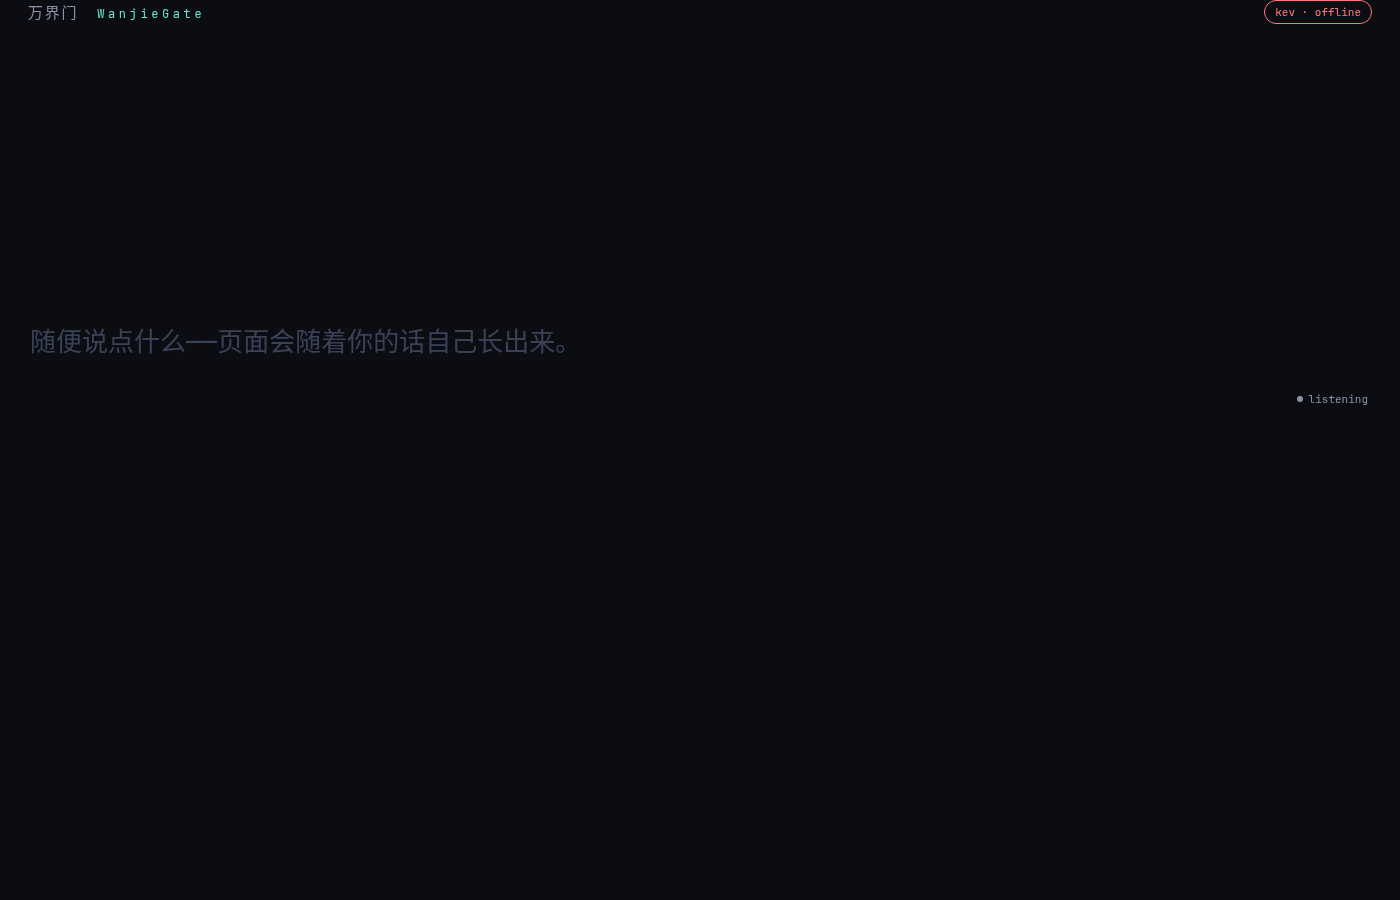
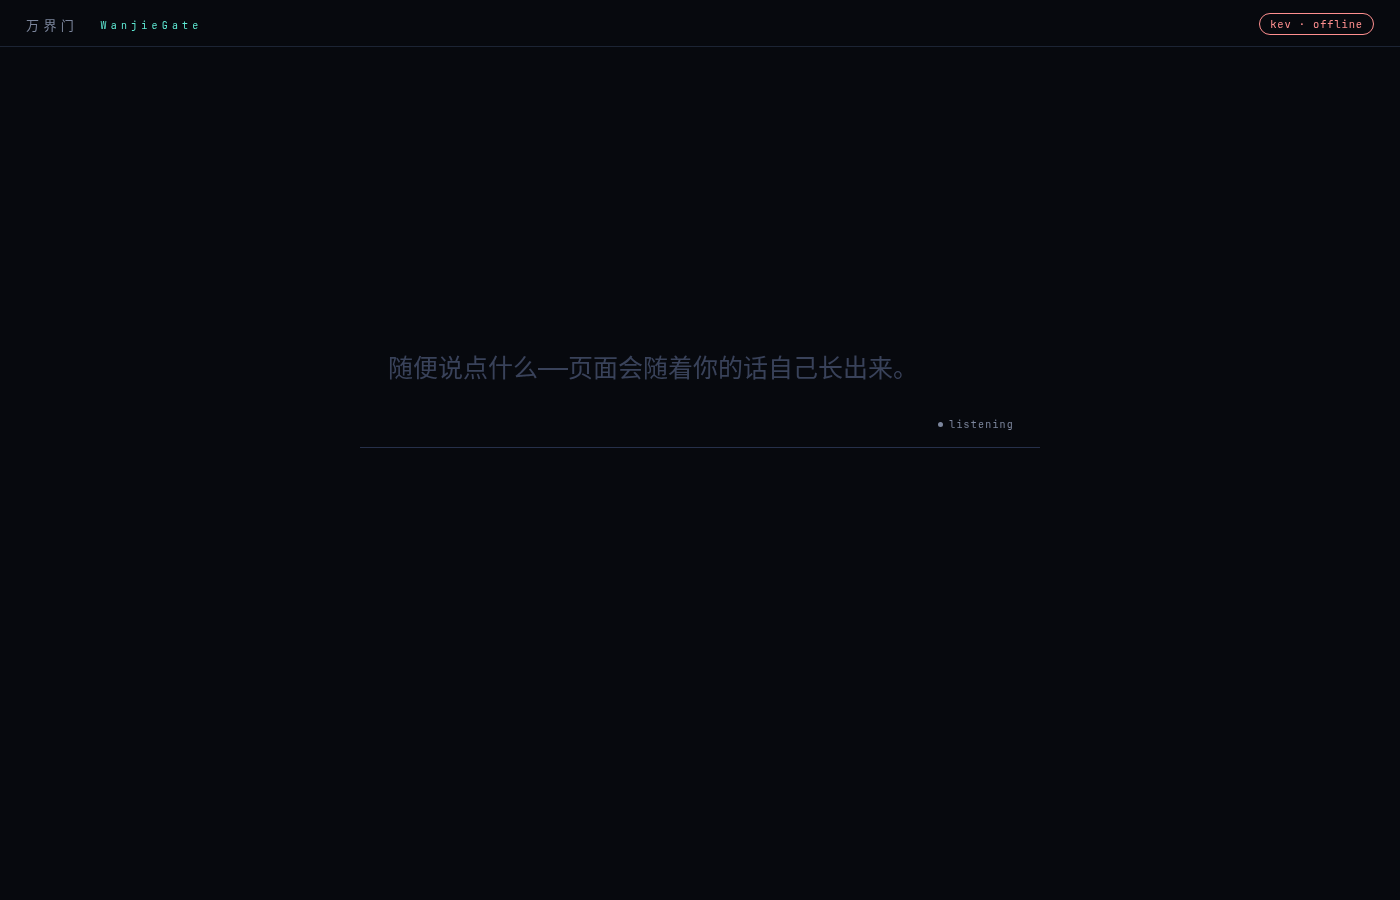
从卡片堆叠改为空间分划布局
- pack() 重写:alert/action-bar 占顶底条带,中部按主区+侧栏分划,
  区域内按 minH 权重铺满,新元素进来时所有区域平滑重划
- 视觉:平面区域 + 发丝分隔线(stage 底色透出),幽灵态为虚线轮廓,
  idle 输入框收窄居中
- selftest 新增 banner 顶行整宽断言

Generated with [Devin](https://devin.ai)

diff --git a/static/styles.css b/static/styles.css
@@ -1,126 +1,141 @@
 :root {
-  --bg: #0b0d12;
-  --panel: #141822;
-  --panel-2: #1a2030;
-  --line: #262f45;
-  --text: #e8ecf4;
-  --dim: #8a93a8;
-  --accent: #6ee7c8;
-  --accent-2: #7aa8ff;
-  --warn: #ff7a7a;
-  --radius: 14px;
-  --ghost: 0.14;
-  font-family: "SF Mono", ui-monospace, "JetBrains Mono", "Noto Sans SC", system-ui, sans-serif;
+  --bg: #07090e;
+  --panel: #0d1119;
+  --panel-2: #10151f;
+  --line: #1c2434;
+  --hair: #26304a;
+  --text: #eaeef7;
+  --dim: #7c869d;
+  --accent: #5eead4;
+  --accent-2: #82aaff;
+  --warn: #ff8f8f;
+  font-family: ui-monospace, "SF Mono", "JetBrains Mono", "Noto Sans SC", monospace;
 }
 * { box-sizing: border-box; }
 html, body { margin: 0; height: 100%; background: var(--bg); color: var(--text); }
 body { overflow: hidden; }
 
-#app {
-  display: flex; flex-direction: column;
-  height: 100vh;
-  padding: 0 28px 28px;
+#app { display: flex; flex-direction: column; height: 100vh; }
+
+/* ---------- 顶栏 ---------- */
+header {
+  display: flex; align-items: center; justify-content: space-between;
+  padding: 13px 26px 11px; border-bottom: 1px solid var(--line);
 }
+.brand { font-size: 13px; letter-spacing: .34em; color: var(--dim); }
+.brand span { color: var(--accent); font-size: 10px; letter-spacing: .42em; margin-left: 10px; vertical-align: 1px; }
 
-header { display: flex; align-items: center; justify-content: space-between; }
-.brand { font-size: 15px; letter-spacing: 0.12em; color: var(--dim); }
-.brand span { color: var(--accent); font-size: 12px; letter-spacing: 0.3em; margin-left: 8px; }
-
-.conn { font-size: 11px; padding: 4px 10px; border-radius: 99px; border: 1px solid var(--line); color: var(--dim); transition: all .3s; }
+.conn { font-size: 10.5px; padding: 3px 10px; border-radius: 99px; border: 1px solid var(--line); color: var(--dim); transition: all .3s; letter-spacing: .08em; }
 .conn-on  { border-color: var(--accent); color: var(--accent); }
 .conn-mock{ border-color: var(--accent-2); color: var(--accent-2); }
 .conn-off { border-color: var(--warn); color: var(--warn); }
 
-#composer { position: relative; padding: 8px 0 18px; flex: none;
-  margin-top: 0;
-  transition: margin-top .7s cubic-bezier(.22,1.1,.3,1);
+/* ---------- 输入区 ---------- */
+#composer {
+  position: relative; flex: none;
+  padding: 2px 26px 12px;
+  border-bottom: 1px solid var(--line);
+  transition: margin-top .7s cubic-bezier(.22,1.1,.3,1),
+              width .7s cubic-bezier(.22,1.1,.3,1);
 }
-/* idle:屏幕上只有居中的输入框 */
-#app.idle #composer { margin-top: 32vh; }
-#app.idle #input { font-size: 26px; }
+/* idle: 屏幕上只有居中的输入框 */
+#app.idle #composer { margin-top: 33vh; width: min(680px, 100%); align-self: center; border-bottom-color: var(--hair); }
+#app.idle #input { font-size: 25px; min-height: 64px; }
 #input {
-  width: 100%; min-height: 84px; max-height: 30vh; resize: none;
+  width: 100%; min-height: 56px; max-height: 26vh; resize: none;
   background: transparent; border: none; outline: none;
-  color: var(--text); font-size: 22px; line-height: 1.55; font-family: inherit;
+  color: var(--text); font-size: 16px; line-height: 1.6; font-family: inherit;
   caret-color: var(--accent);
   transition: font-size .7s cubic-bezier(.22,1.1,.3,1);
 }
-#input::placeholder { color: #3a4258; }
-#pulse { position: absolute; right: 4px; bottom: 22px; font-size: 11px; color: var(--dim); display: flex; gap: 6px; align-items: center; }
-#pulse-dot { width: 6px; height: 6px; border-radius: 50%; background: var(--dim); transition: background .2s; }
+#input::placeholder { color: #39425a; }
+#pulse { position: absolute; right: 26px; bottom: 16px; font-size: 10px; letter-spacing: .12em; color: var(--dim); display: flex; gap: 6px; align-items: center; }
+#pulse-dot { width: 5px; height: 5px; border-radius: 50%; background: var(--dim); transition: background .2s; }
 #pulse.thinking #pulse-dot { background: var(--accent); box-shadow: 0 0 8px var(--accent); }
 
+/* ---------- 画布:一整个被分划的空间 ---------- */
 #stage {
   position: relative; overflow: hidden; flex: 1;
-  border-top: 1px solid var(--line);
+  margin: 16px 26px 22px;
+  border: 1px solid var(--hair); border-radius: 12px;
+  background: var(--hair);                       /* 区域缝隙透出 = 发丝分隔线 */
   opacity: 1; transition: opacity .5s ease;
 }
 #app.idle #stage { opacity: 0; pointer-events: none; }
 
-/* ---- materializing cards ---- */
+/* ---------- 区域(原"卡片") ---------- */
 .card {
   position: absolute; left: 0; top: 0;
-  background: linear-gradient(160deg, var(--panel), var(--panel-2));
-  border: 1px solid var(--line);
-  border-radius: var(--radius);
-  padding: 14px 16px;
+  background: linear-gradient(165deg, var(--panel-2), var(--panel));
+  padding: 14px 18px;
   overflow: hidden;
   will-change: transform, opacity, filter;
   transition:
     transform  .48s cubic-bezier(.22,1.2,.3,1),
     width      .48s cubic-bezier(.22,1.2,.3,1),
     height     .48s cubic-bezier(.22,1.2,.3,1),
-    box-shadow .3s ease,
-    border-color .3s ease;
+    left       .48s cubic-bezier(.22,1.2,.3,1),
+    top        .48s cubic-bezier(.22,1.2,.3,1),
+    box-shadow .3s ease;
 }
+/* 幽灵态:区域还只是"被提议",虚线轮廓 + 透明底 */
 .card.ghost {
-  border-style: dashed;
   background: transparent;
-  backdrop-filter: none;
+  outline: 1px dashed #33405e; outline-offset: -5px;
 }
+/* 强调区:发丝线变成 accent,内角微光 */
 .card.emph {
-  border-color: var(--accent);
-  box-shadow: 0 0 0 1px var(--accent), 0 12px 40px -12px rgba(110,231,200,.35);
+  box-shadow: inset 0 0 0 1px var(--accent), inset 0 0 60px -40px var(--accent);
 }
-.card .c-title { font-size: 11px; letter-spacing: .14em; text-transform: uppercase; color: var(--dim); margin-bottom: 8px; }
-.card .c-big { font-size: 34px; font-weight: 700; line-height: 1.05; }
-.card .c-sub { font-size: 12px; color: var(--dim); margin-top: 4px; }
+.card.emph .c-title { color: var(--accent); }
+
+.card .c-title { font-size: 10px; letter-spacing: .2em; text-transform: uppercase; color: var(--dim); margin-bottom: 8px; }
+.card .c-big { font-size: clamp(24px, 3.4vh, 38px); font-weight: 600; line-height: 1.05; letter-spacing: -.01em; }
+.card .c-sub { font-size: 11.5px; color: var(--dim); margin-top: 5px; }
 .card .trend-up { color: var(--accent); }
 .card .trend-down { color: var(--warn); }
 
-.chip { display: inline-flex; align-items: center; gap: 8px; }
-.chip .val { font-size: 18px; color: var(--accent); font-weight: 600; }
-.chip .bar { width: 90px; height: 5px; background: var(--line); border-radius: 99px; overflow: hidden; }
+.chip { display: inline-flex; align-items: center; gap: 10px; }
+.chip .val { font-size: 17px; color: var(--accent); font-weight: 600; }
+.chip .bar { width: 90px; height: 4px; background: var(--line); border-radius: 99px; overflow: hidden; }
 .chip .bar i { display: block; height: 100%; background: var(--accent); transition: width .3s; }
 
-.banner { background: linear-gradient(90deg, rgba(255,122,122,.14), rgba(255,122,122,.04)); border-color: rgba(255,122,122,.5); display: flex; align-items: center; gap: 10px; }
-.banner .dot { width: 8px; height: 8px; border-radius: 50%; background: var(--warn); box-shadow: 0 0 10px var(--warn); }
+/* 顶/底条带区域:内容垂直居中 */
+.banner {
+  background: linear-gradient(90deg, rgba(255,143,143,.13), rgba(255,143,143,.02) 70%);
+  box-shadow: inset 3px 0 0 var(--warn);
+  display: flex; align-items: center; gap: 10px;
+}
+.banner .dot { width: 8px; height: 8px; border-radius: 50%; background: var(--warn); box-shadow: 0 0 10px var(--warn); flex: none; }
+.banner > div { font-size: 14px; }
 
+.card[data-id="action-bar"] { display: flex; align-items: center; }
 .actions { display: flex; gap: 10px; align-items: center; }
-.btn { font: inherit; font-size: 13px; padding: 8px 14px; border-radius: 9px; border: 1px solid var(--line); background: var(--panel-2); color: var(--text); cursor: pointer; transition: all .18s; }
+.btn { font: inherit; font-size: 12.5px; padding: 7px 14px; border-radius: 8px; border: 1px solid var(--hair); background: var(--panel-2); color: var(--text); cursor: pointer; transition: all .18s; }
 .btn:hover { border-color: var(--accent); color: var(--accent); transform: translateY(-1px); }
 .btn.primary { background: var(--accent); color: #06281f; border-color: var(--accent); font-weight: 600; }
 
-.hero-num { font-size: 72px; font-weight: 800; letter-spacing: -.02em; background: linear-gradient(90deg, var(--accent), var(--accent-2)); -webkit-background-clip: text; background-clip: text; color: transparent; }
+.card[data-id="hero-stat"] { display: flex; flex-direction: column; align-items: center; justify-content: center; }
+.hero-num { font-size: clamp(48px, 11vh, 110px); font-weight: 700; letter-spacing: -.03em; background: linear-gradient(90deg, var(--accent), var(--accent-2)); -webkit-background-clip: text; background-clip: text; color: transparent; }
 
 table.rows { width: 100%; border-collapse: collapse; font-size: 13px; }
-table.rows td { padding: 5px 2px; border-bottom: 1px solid var(--line); color: var(--text); }
+table.rows td { padding: 6px 2px; border-bottom: 1px solid var(--line); color: var(--text); }
 table.rows td:last-child { text-align: right; color: var(--dim); }
 
-.tl { display: flex; flex-direction: column; gap: 8px; font-size: 13px; }
+.tl { display: flex; flex-direction: column; gap: 9px; font-size: 13px; }
 .tl .step { display: flex; gap: 10px; align-items: baseline; }
-.tl .step i { width: 7px; height: 7px; border-radius: 50%; background: var(--accent-2); flex: none; transform: translateY(-1px); }
+.tl .step i { width: 6px; height: 6px; border-radius: 50%; background: var(--accent-2); flex: none; transform: translateY(-1px); }
 
-.prog { height: 8px; background: var(--line); border-radius: 99px; overflow: hidden; margin-top: 10px; }
+.prog { height: 6px; background: var(--line); border-radius: 99px; overflow: hidden; margin-top: 12px; }
 .prog i { display: block; height: 100%; background: linear-gradient(90deg, var(--accent-2), var(--accent)); transition: width .6s cubic-bezier(.3,1,.3,1); }
 
-.note { font-size: 15px; line-height: 1.6; color: var(--text); }
+.note { font-size: 15px; line-height: 1.65; color: var(--text); }
 .note::before { content: "“"; color: var(--accent-2); font-size: 26px; line-height: 0; margin-right: 4px; }
 
 #debug {
   position: fixed; right: 12px; bottom: 12px; width: 300px; max-height: 50vh; overflow: auto;
-  background: rgba(10,12,18,.92); border: 1px solid var(--line); border-radius: 10px;
-  font-size: 10.5px; padding: 10px 12px; color: var(--dim); z-index: 9;
+  background: rgba(8,10,16,.92); border: 1px solid var(--hair); border-radius: 10px;
+  font-size: 10.5px; padding: 10px 12px; color: var(--dim); z-index: 9; backdrop-filter: blur(8px);
 }
 #debug.hidden { display: none; }
 #debug .d-row { display: flex; justify-content: space-between; gap: 8px; padding: 1.5px 0; }
@@ -129,6 +144,8 @@ table.rows td:last-child { text-align: right; color: var(--dim); }
 #debug .d-bar i { display: block; height: 100%; background: var(--accent-2); }
 
 @media (max-width: 720px) {
-  #app { padding: 0 14px 14px; }
-  #input { font-size: 18px; }
+  #composer, #app.idle #composer { padding-left: 16px; padding-right: 16px; }
+  #stage { margin: 12px 16px 16px; }
+  #pulse { right: 16px; }
+  #input { font-size: 17px; }
 }

diff --git a/static/app.js b/static/app.js
@@ -11,7 +11,7 @@ const MOCK = new URLSearchParams(location.search).has("mock");
 const DEBOUNCE_MS = 320;
 const TAU_IN = 0.16, TAU_OUT = 0.5;        // 进场快、退场慢(秒)
 const MOUNT_P = 0.03, GHOST_LO = 0.15, SOLID = 0.55;
-const COLS = 12, ROW_H = 92, GAP = 12;
+const STRIP_H = 58, DIV = 1;                  // 条带高度 / 分隔线宽
 const EASE = "cubic-bezier(.22,1.2,.3,1)";
 
 let manifest = null;
@@ -135,23 +135,52 @@ function defaultBinding(id) {
   return b ? Object.keys(b.options)[0] : null;
 }
 
-/* ---------- 布局打包:12 列流式 ---------- */
+/* ---------- 空间分划:舞台被切成条带 + 主区/侧栏,区域按权重填满 ---------- */
+function zoneOf(id) {
+  if (id === "alert-banner") return "top";
+  if (id === "action-bar") return "bottom";
+  if (id === emphasis) return "main";
+  const d = manifest.components[id];
+  return (d.minH >= 3 || d.span >= 6) ? "main" : "rail";
+}
+
 function pack() {
-  const W = stage.clientWidth, colW = (W - GAP * (COLS - 1)) / COLS;
-  // 正在淡出的卡片保留槽位(m>MOUNT_P),避免布局在动画中塌陷;按 m 排序让已有卡片位置稳定
+  const W = stage.clientWidth, H = stage.clientHeight;
+  const order = Object.keys(manifest.components);
   const vis = [...cards.values()].filter(c => c.target > 0 || c.m > MOUNT_P)
-    .sort((a, b) => b.m - a.m);
-  vis.sort((a, b) => (b.id === "alert-banner") - (a.id === "alert-banner"));
-  let x = 0, yPx = 0, rowMaxH = 0;
-  for (const c of vis) {
-    const def = manifest.components[c.id];
-    let span = Math.min(COLS, def.span);
-    if (layoutMode === "focus") span = Math.max(span, 8);
-    const hPx = (def.minH || 1) * ROW_H + ((def.minH || 1) - 1) * GAP;
-    if (x + span > COLS) { x = 0; yPx += rowMaxH + GAP; rowMaxH = 0; }
-    c.rect = {x: x * (colW + GAP), y: yPx, w: span * colW + (span - 1) * GAP, h: hPx};
-    x += span; rowMaxH = Math.max(rowMaxH, hPx);
-    if (x >= COLS) { x = 0; yPx += rowMaxH + GAP; rowMaxH = 0; }
+    .sort((a, b) => order.indexOf(a.id) - order.indexOf(b.id));
+  const tops  = vis.filter(c => zoneOf(c.id) === "top");
+  const bots  = vis.filter(c => zoneOf(c.id) === "bottom");
+  const mains = vis.filter(c => zoneOf(c.id) === "main");
+  const rails = vis.filter(c => zoneOf(c.id) === "rail");
+
+  let y = 0;
+  for (const c of tops) { c.rect = {x: 0, y, w: W, h: STRIP_H}; y += STRIP_H + DIV; }
+  let by = H;
+  for (const c of bots) { by -= STRIP_H; c.rect = {x: 0, y: by, w: W, h: STRIP_H}; by -= DIV; }
+  const midH = Math.max(0, by + DIV - y);
+
+  const narrow = W < 720;
+  let mainW = W;
+  if (mains.length && rails.length && !narrow)
+    mainW = Math.round(W * (layoutMode === "split" ? 0.52 : 0.62));
+  else if (!mains.length) mainW = 0;
+
+  // 一列区域内按 minH 权重铺满,最后一个吃掉舍入余量
+  const stack = (list, x0, w, y0, h) => {
+    const tot = list.reduce((s, c) => s + (manifest.components[c.id].minH || 1), 0);
+    let cy = y0;
+    list.forEach((c, i) => {
+      const ch = i === list.length - 1 ? y0 + h - Math.round(cy)
+        : Math.round((h - DIV * (list.length - 1)) * (manifest.components[c.id].minH || 1) / tot);
+      c.rect = {x: x0, y: Math.round(cy), w, h: Math.max(0, ch)};
+      cy += ch + DIV;
+    });
+  };
+  if (narrow) stack([...mains, ...rails], 0, W, y, midH);
+  else {
+    if (mains.length) stack(mains, 0, mainW, y, midH);
+    if (rails.length) stack(rails, mains.length ? mainW + DIV : 0, mains.length ? W - mainW - DIV : W, y, midH);
   }
 }
 

diff --git a/tools/selftest.py b/tools/selftest.py
@@ -35,7 +35,7 @@ with sync_playwright() as pw:
     assert not cards, "初始不应有卡片"
     box = page.locator("#composer").bounding_box()
     vh = page.viewport_size["height"]
-    print(f"  composer top={box['y']:.0f} (期望 ~{vh*0.32:.0f})")
+    print(f"  composer top={box['y']:.0f} (期望 ~{vh*0.33:.0f})")
 
     # 2) 逐字输入中文 → 决策帧到达后卡片应以幽灵/实体浮现
     page.click("#input")
@@ -65,6 +65,11 @@ with sync_playwright() as pw:
     print(f"  cards={ids}")
     alert = next((c for c in cards if c["id"] == "alert-banner"), None)
     assert alert and alert["t"] >= 0.4, f"alert 语境应召出 banner(got {alert})"
+    # 空间分划:banner 应是舞台顶部的整宽条带
+    stage_box = page.locator("#stage").bounding_box()
+    abox = page.locator('.card[data-id="alert-banner"]').bounding_box()
+    assert abs(abox["y"] - stage_box["y"]) < 24 and abox["width"] > stage_box["width"] * 0.95, \
+        f"banner 应为顶行整宽条带(stage={stage_box}, alert={abox})"
 
     # 4) 清空 → 收回 idle
     page.fill("#input", "")
